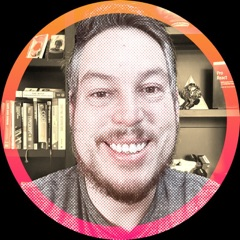
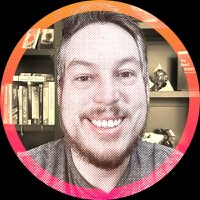
Inline console photo as data URI
The %c span renders in the devtools document, so page-relative asset
URLs never resolve there. Smaller re-encode to offset the base64 cost.

diff --git a/src/photo.ts b/src/photo.ts
@@ -1,11 +1,12 @@
-import me from './me.jpg'
+import me from './me.jpg?inline'
 import { hint } from './styles'
 
 const SIZE = 120
 
-// Consoles have no <img>. Chrome renders a background-image on a `%c` span
-// whose box is inflated with padding. Firefox ignores url() backgrounds and
-// shows an empty line, hence the fallback hint in photo().
+// Consoles have no <img>. The styled `%c` span renders inside the devtools
+// document, so relative/page URLs never resolve: inline as a data URI.
+// Box is inflated with padding. Some consoles still drop url() backgrounds,
+// hence the fallback hint in photo().
 export const renderPhoto = () => {
   console.log(
     '%c ',
@@ -21,5 +22,5 @@ export const renderPhoto = () => {
 
 export const photo = () => {
   renderPhoto()
-  hint(`no face? your console skips background images. open it directly: ${location.origin}${me}`)
+  hint('no face? your console skips background images. LinkedIn has one.')
 }
